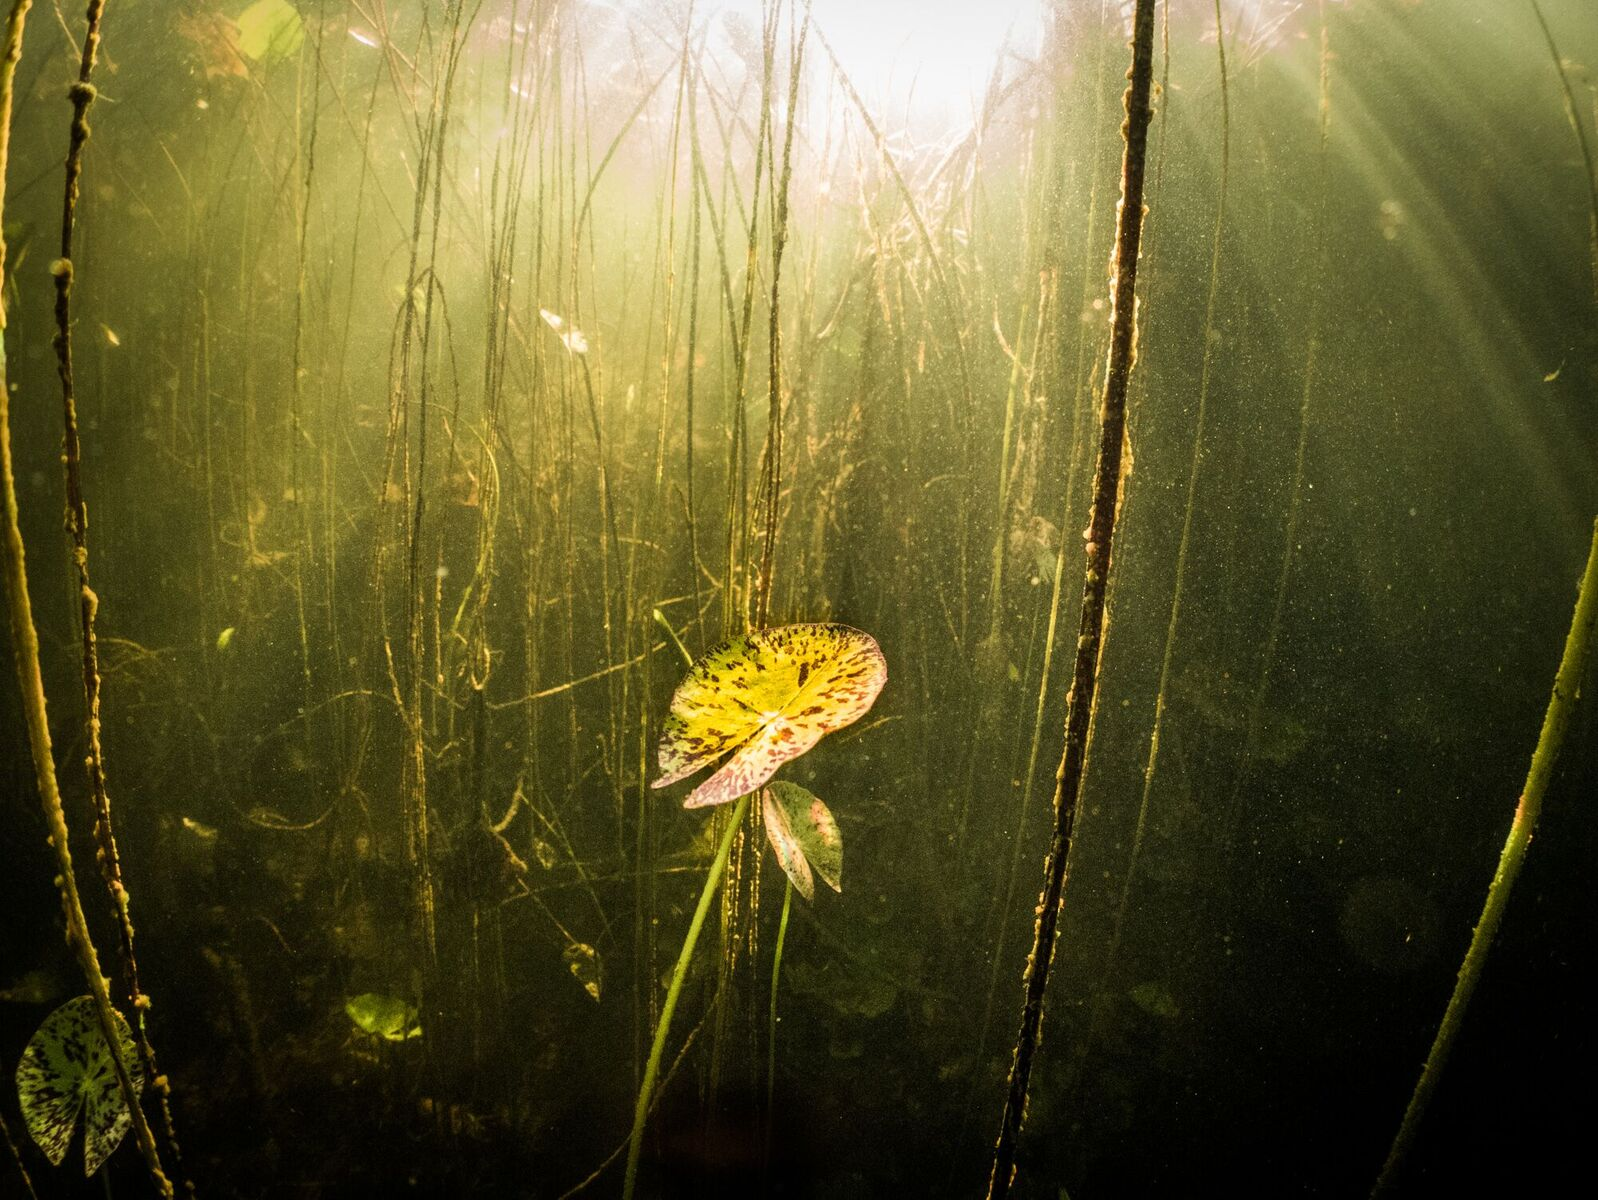
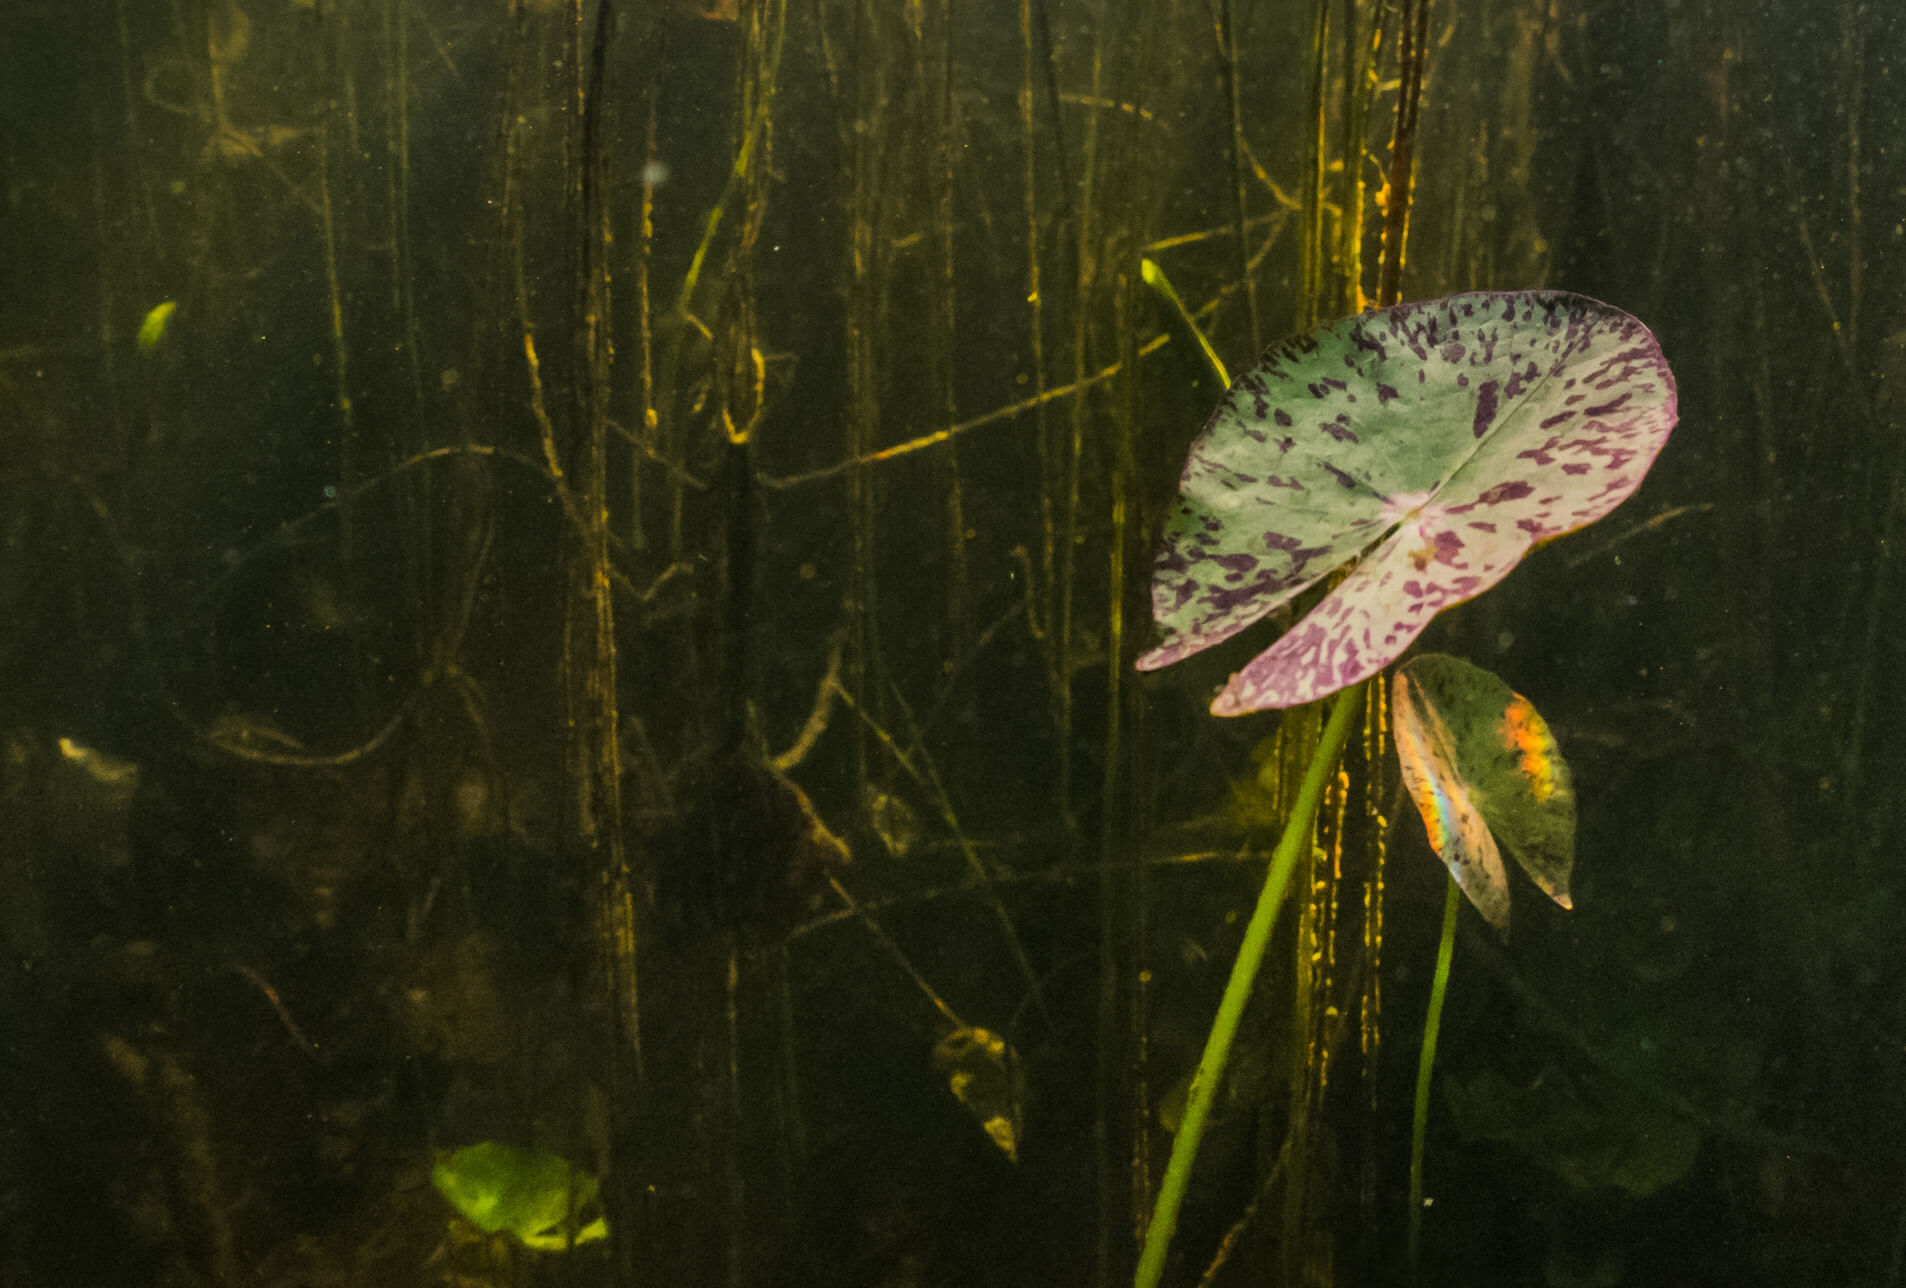
Update landing page and other layouts (#315)

diff --git a/django_project/healthyrivers_core/base_static/css/base.css b/django_project/healthyrivers_core/base_static/css/base.css
@@ -253,6 +253,20 @@ h6 {
     color: white;
 }
 
+.fbis-button-small.disabled {
+    background-color: #a0a0a0 !important;
+}
+
+.fbis-button-small.disabled:active {
+    background-color: #a0a0a0 !important;
+    box-shadow: inset 0 0 0 rgba(0,0,0, 0) !important;
+}
+
+.fbis-button-small.disabled:hover {
+    background-color: #a0a0a0 !important;
+    cursor: default;
+}
+
 .fbis-button-small span {
     align-items: center;
     height: 100%;

diff --git a/django_project/healthyrivers_base/static/css/landing_page.css b/django_project/healthyrivers_base/static/css/landing_page.css
@@ -86,7 +86,7 @@ img::-moz-selection {
 }
 
 #header {
-    background-image: url('/static/img/Underwater_preview.png');
+    background-image: url('/static/img/landing_page_image.jpg');
 }
 
 header.masthead {

diff --git a/django_project/healthyrivers_base/static/css/healthyrivers-map.css b/django_project/healthyrivers_base/static/css/healthyrivers-map.css
@@ -21,7 +21,7 @@
 }
 
 .panel-wrapper {
-    padding-top: 69px;
+    padding-top: 50px;
 }
 .map-control-panel {
     top: 20px;
